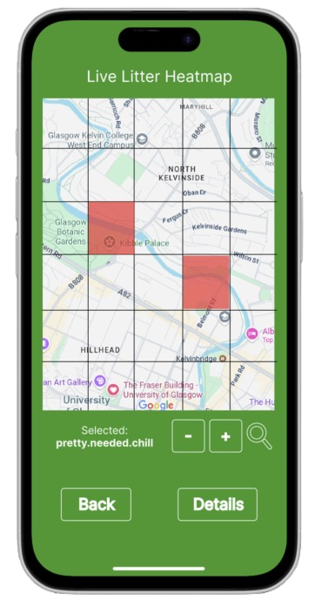
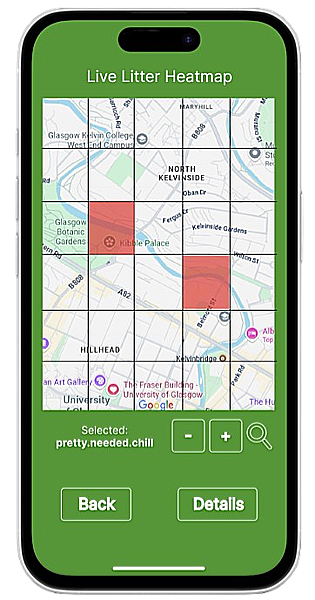
enhanced the quality of prototype image and added week 1 pitch video embed

diff --git a/weekly-pitch.html b/weekly-pitch.html
@@ -87,15 +87,7 @@
                 <p class="text-muted">22 - 25 July</p>
             </div>
             <div class="ratio ratio-16x9">
-                <iframe 
-                    width="560" 
-                    height="315" 
-                    src="https://www.youtube.com/embed/VIDEO_ID_1" 
-                    title="YouTube video player" 
-                    frameborder="0"
-                    allow="accelerometer; autoplay; clipboard-write; encrypted-media; gyroscope; picture-in-picture; web-share" 
-                    allowfullscreen>
-                </iframe>           
+                <iframe width="560" height="315" src="https://www.youtube.com/embed/WWA_dKxPiX4?si=qt3mVrwBFz3UItay" title="YouTube video player" frameborder="0" allow="accelerometer; autoplay; clipboard-write; encrypted-media; gyroscope; picture-in-picture; web-share" referrerpolicy="strict-origin-when-cross-origin" allowfullscreen></iframe>
             </div>
         </div>
 
